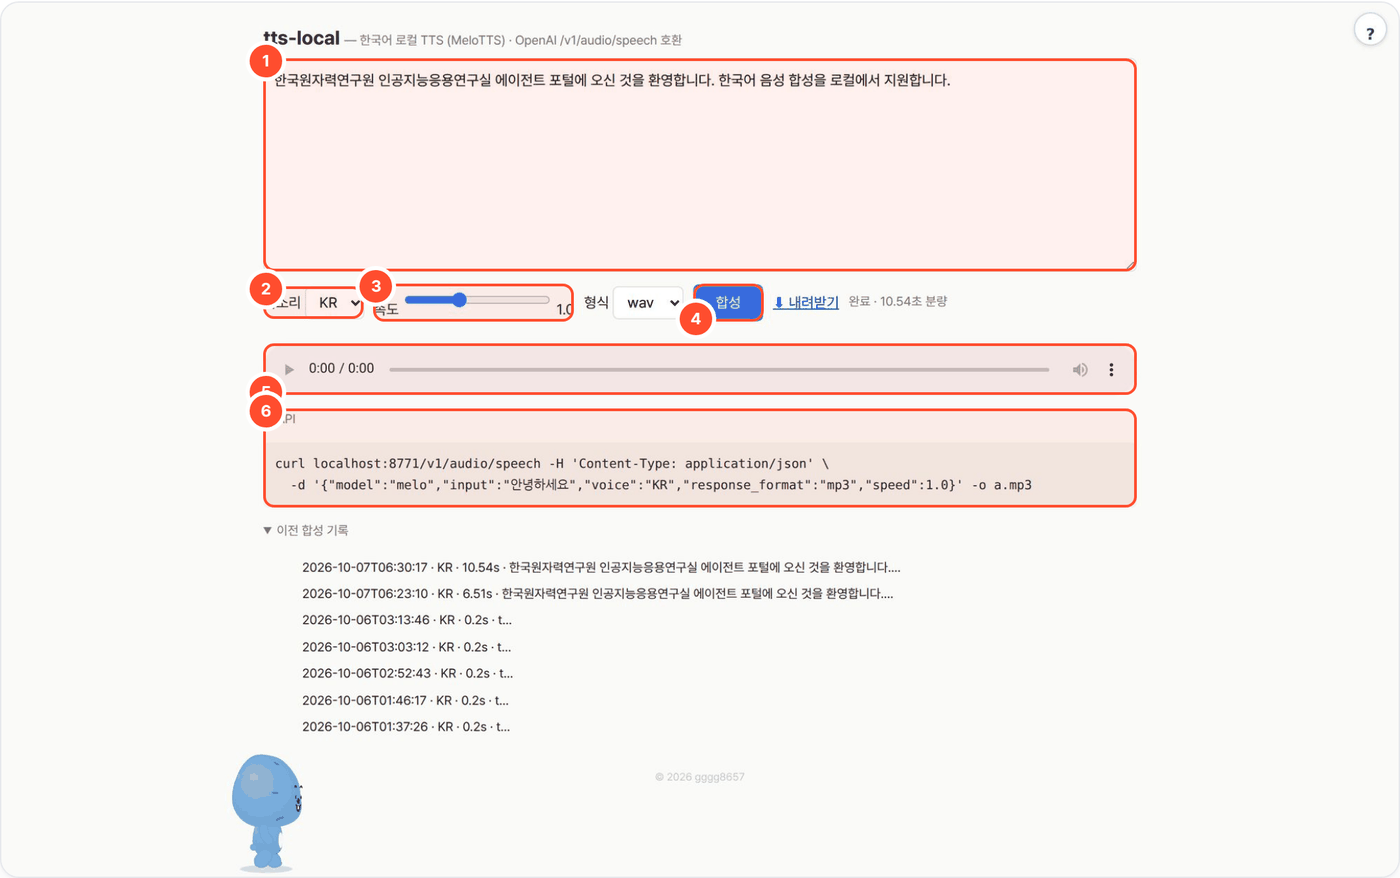
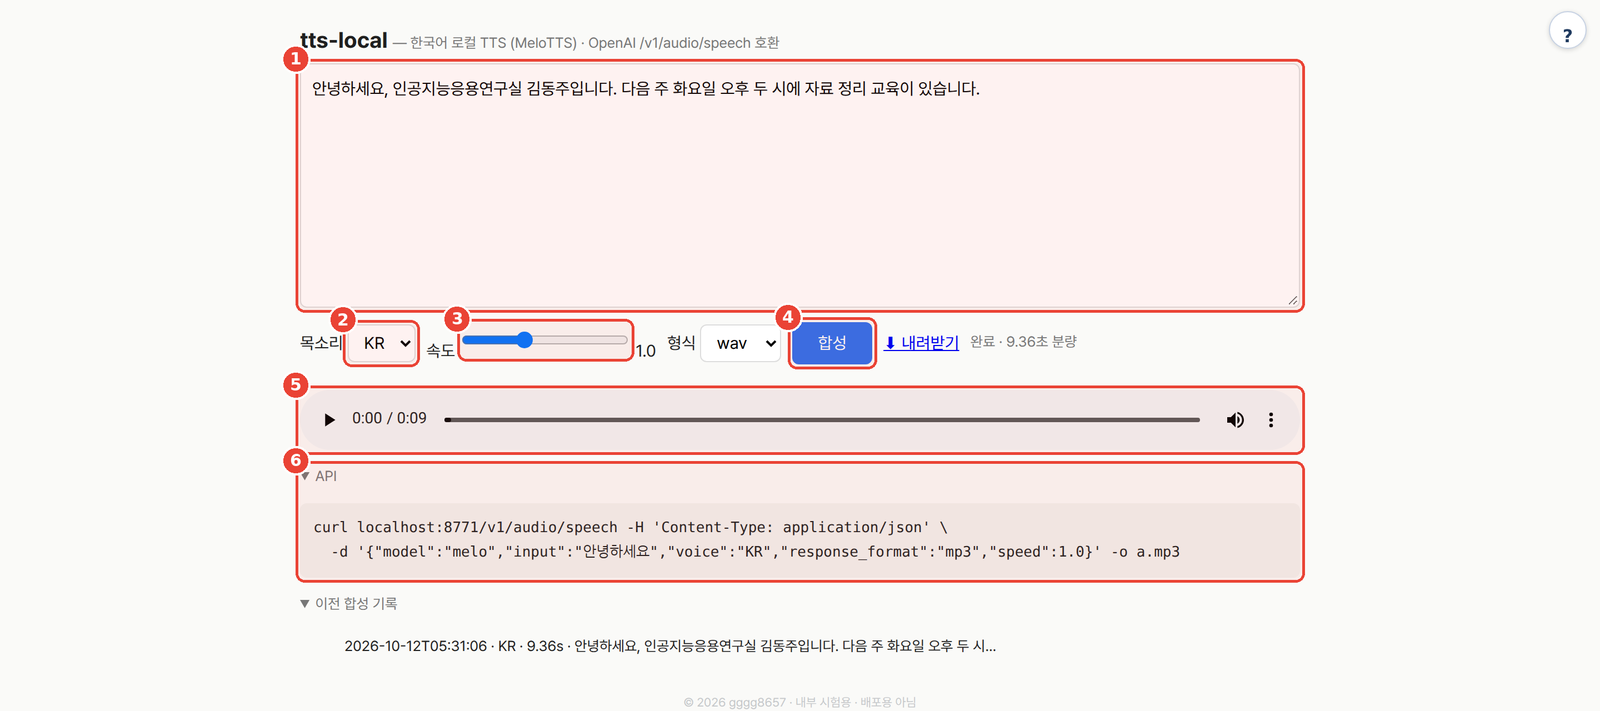
README: 사용 화면·예시를 새 실행으로 다시 찍음 (예시 작성자 김동주)

diff --git a/README.md b/README.md
@@ -25,20 +25,20 @@
 
 ## 예시
 
-실제 실행 결과입니다(2026-10-07).
+실제 실행 결과입니다(2026-10-12, 위 화면).
 
 입력:
 
 ```text
-한국원자력연구원 인공지능응용연구실 에이전트 포털에 오신 것을 환영합니다. 한국어 음성 합성을 로컬에서 지원합니다.
+안녕하세요, 인공지능응용연구실 김동주입니다. 다음 주 화요일 오후 두 시에 자료 정리 교육이 있습니다.
 voice: KR · speed: 1.0 · format: wav
 ```
 
 출력:
 
 ```text
-WORKSPACE/2026-10-07-83d8/audio.wav   10.54초 · 44,100Hz · 모노 · 16-bit PCM
-WORKSPACE/2026-10-07-83d8/meta.json
+WORKSPACE/u/<사용자>/2026-10-12-da92/audio.wav   9.36초 · 44,100Hz · 모노 · 16-bit PCM
+WORKSPACE/u/<사용자>/2026-10-12-da92/meta.json
 ```
 
 ## 설치·실행
